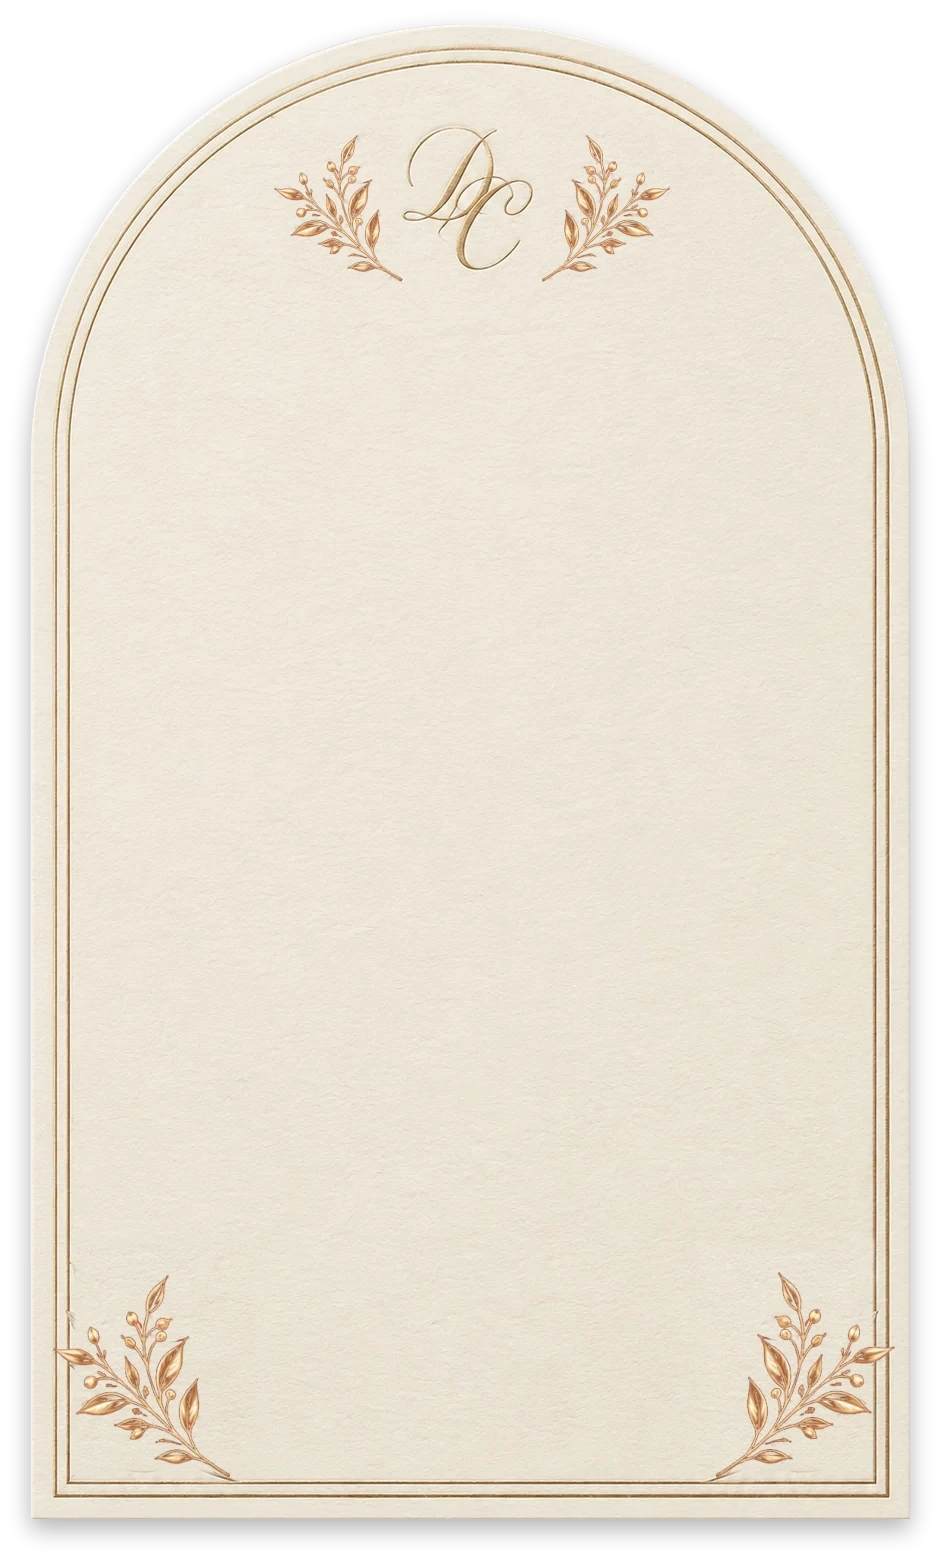
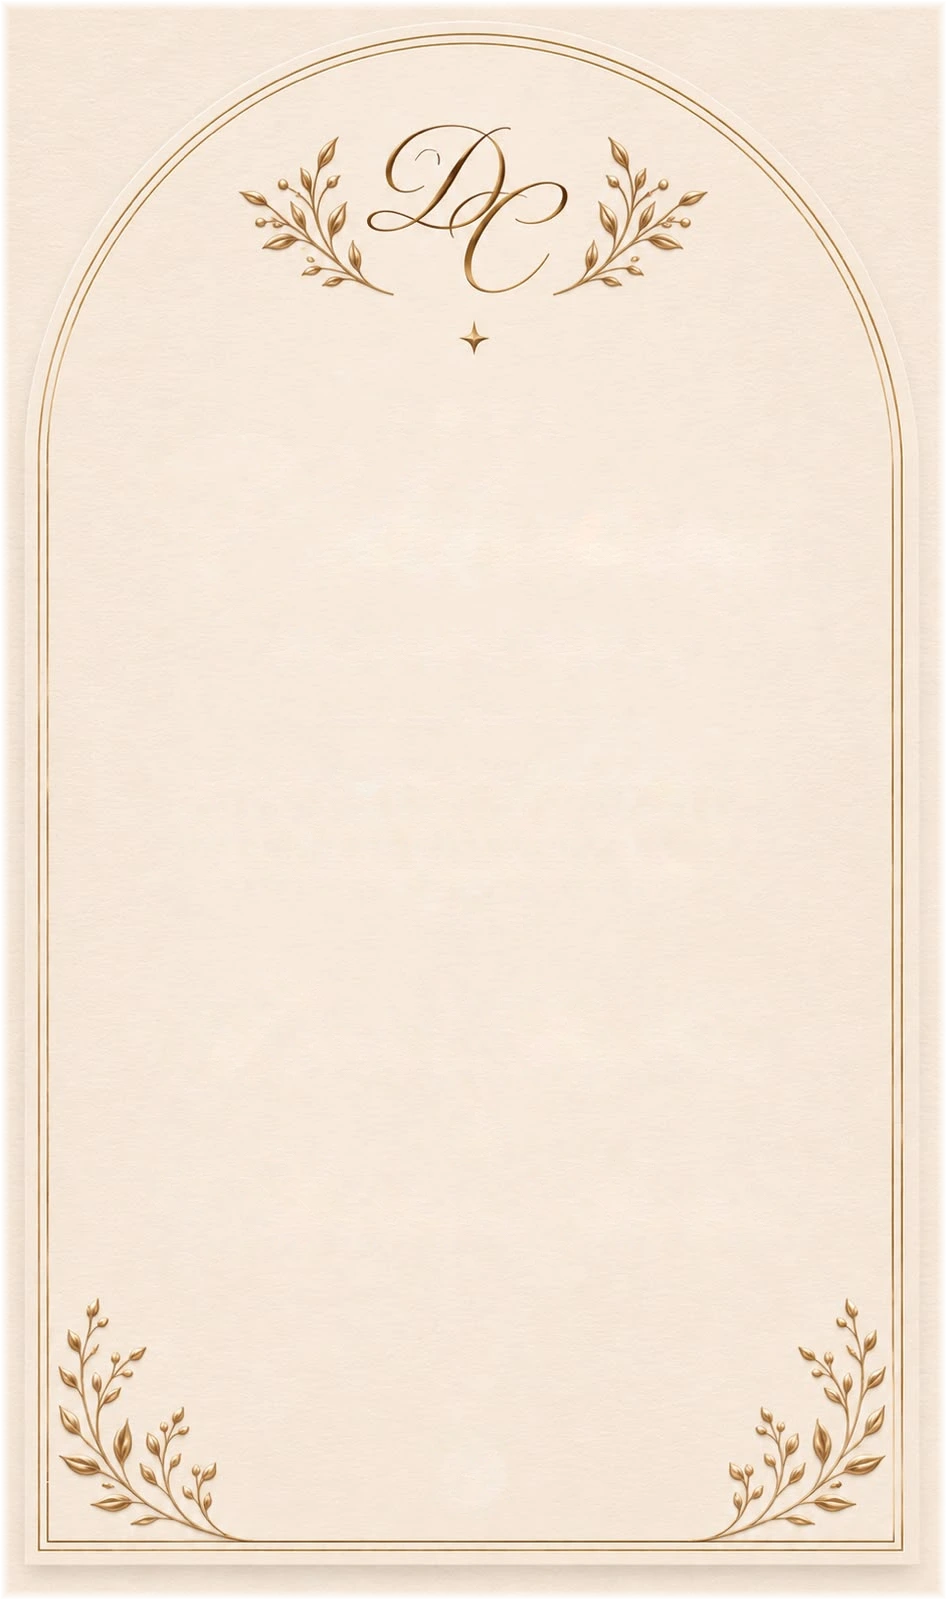
Update wedding invitation

Changed region(s): [[0.0, 0.0, 1.0, 1.0]]

diff --git a/index.html b/index.html
@@ -5,7 +5,7 @@
   <meta name="viewport" content="width=device-width, initial-scale=1, viewport-fit=cover">
   <title>Derick &amp; Christina — Four Celebrations</title>
   <meta name="description" content="Four Celebrations. One Beautiful Beginning. 2–9 January 2027.">
-  <meta name="theme-color" content="#EFE8DA">
+  <meta name="theme-color" content="#F5E6D6">
   <meta property="og:title" content="Derick &amp; Christina — Four Celebrations">
   <meta property="og:description" content="Four Celebrations · 2–9 January 2027">
   <meta property="og:type" content="website">
@@ -15,7 +15,7 @@
   <meta name="twitter:image" content="https://derick-christina-engagement.vercel.app/assets/og-image.jpg">
   <link rel="preconnect" href="https://fonts.googleapis.com">
   <link rel="preconnect" href="https://fonts.gstatic.com" crossorigin>
-  <link href="https://fonts.googleapis.com/css2?family=Cinzel:wght@400;500&family=Cormorant+Garamond:ital,wght@0,400;0,500;0,600;1,400;1,500&family=EB+Garamond:ital,wght@0,400;0,500;1,400&family=Great+Vibes&display=swap" rel="stylesheet">
+  <link href="https://fonts.googleapis.com/css2?family=Cinzel:wght@400;500&family=Cormorant+Garamond:ital,wght@0,400;0,500;0,600;1,400;1,500&family=EB+Garamond:ital,wght@0,400;0,500;1,400&family=Great+Vibes&family=Pinyon+Script&display=swap" rel="stylesheet">
   <link rel="preload" as="image" href="assets/env-back.webp" type="image/webp">
   <link rel="stylesheet" href="style.css">
 </head>
@@ -46,7 +46,7 @@
 
   <button id="music" type="button" hidden aria-label="Mute music" aria-pressed="false">♪</button><audio id="audio" loop preload="auto" autoplay playsinline></audio>
 <main class="doc" id="doc" tabindex="-1">
-<section class="page cover reveal" aria-label="Introduction"><div class="pi"><h1 class="tt sc">Four Celebrations</h1><p class="sb">One Beautiful Beginning</p><i class="dv"></i><p class="wd">With hearts full of joy, we invite you to join us as we celebrate love, togetherness, and the beginning of a beautiful new chapter.</p><p class="nm">Derick Mathew<span class="amp">&amp;</span>Christina Cherian</p></div><button class="down" id="downBtn" type="button" aria-label="Scroll down to the celebrations"><svg viewBox="0 0 24 24" aria-hidden="true"><path d="M5 9l7 7 7-7"/></svg></button></section>
+<section class="page cover reveal" aria-label="Introduction"><div class="pi"><h1 class="cv-h"><span class="cv-eyebrow">Four</span><span class="cv-sr">Celebrations</span></h1><img class="cv-img i-celebrations" src="assets/cards/cv-celebrations.webp" alt="" aria-hidden="true"><p class="cv-sub">One Beautiful Beginning</p><i class="cv-div" aria-hidden="true"><b></b></i><p class="cv-inv">With hearts full of joy, we invite you to<br>join us as we celebrate love, togetherness,<br>and the beginning of a beautiful new<br>chapter.</p><p class="cv-sr cv-n1x">Derick Mathew</p><img class="cv-img i-derick" src="assets/cards/cv-derick.webp" alt="" aria-hidden="true"><span class="cv-amp" aria-hidden="true">&amp;</span><p class="cv-sr cv-n2x">Christina Cherian</p><img class="cv-img i-christina" src="assets/cards/cv-christina.webp" alt="" aria-hidden="true"></div><button class="down" id="downBtn" type="button" aria-label="Scroll down to the celebrations"><svg viewBox="0 0 24 24" aria-hidden="true"><path d="M5 9l7 7 7-7"/></svg></button></section>
 <section class="page ev eng reveal" aria-label="Engagement"><div class="pi"><p class="sb">A Ring, A Promise, A Lifetime of Love</p><h2 class="tt">Engagement</h2><i class="dv"></i><p class="dt">Saturday, 2 January 2027</p><p class="tm">4:30 PM</p><div class="vb"><p class="lb">At</p><p class="vn">St. Thomas Syro-Malabar Church</p><p class="ad">Kottakkavu, North Paravur</p><a class="btn" target="_blank" rel="noopener noreferrer" href="https://www.google.com/maps/search/?api=1&query=St+Thomas+Syro+Malabar+Church+Kottakkavu+North+Paravur">View Church Location</a></div><div class="vb"><p class="lb">Reception</p><p class="tm">6:30 PM</p><p class="lb">At</p><p class="vn">One Kochi</p><p class="ad">Nedumbassery, Kochi</p><a class="btn" target="_blank" rel="noopener noreferrer" href="https://www.google.com/maps/search/?api=1&query=One+Kochi+Airport+Road+Nedumbassery">View Reception Location</a></div><p class="lb eng-dl">Dress Code</p><p class="dc">Ethnic Elegance</p></div></section>
 <section class="page ev cok reveal" aria-label="Cocktail Party"><div class="pi"><p class="sb"><span class="an">An</span> Exclusive Celebration</p><h2 class="tt">Cocktail Party</h2><p class="vs">A night full of games, dancing, and unforgettable memories.</p><p class="dt">Tuesday, 5 January 2027</p><p class="tm">5:00 PM</p><p class="lb cok-at">At</p><p class="vn cok-vn">Cotton Tree, Achanpady</p><a class="btn" target="_blank" rel="noopener noreferrer" href="https://www.google.com/maps/search/?api=1&query=Cotton+Tree+Achanpady+Kerala">View Location</a><div class="cok-dw"><p class="lb cok-dl">Dress Code</p><p class="dc">Glitz &amp; Glamour</p></div>
 <div class="rv">
@@ -66,7 +66,7 @@
   <p class="lb rv__q">What if I don’t RSVP on time?</p>
   <p class="rv__a">You’ll still be loved. Just possibly not fed.</p>
 </div></div></section>
-<section class="page ev mad reveal" aria-label="Madhuramveppu"><div class="pi"><p class="sb">A Celebration of Our Roots</p><h2 class="tt">Madhuramveppu</h2><p class="vs">Celebrating the sweetness of tradition, the warmth of family, and the vibrant spirit of Kerala.</p><i class="dv"></i><p class="dt">Thursday, 7 January 2027</p><p class="tm">6:00 PM</p><p class="lb">At</p><p class="vn">Mathew Kappil House</p><p class="ad">Kuttanad</p><a class="btn" target="_blank" rel="noopener noreferrer" href="https://maps.app.goo.gl/zuQkeont2NPMP6Ef7?g_st=ic">View Area on Map</a><p class="lb mad-dl">Dress Code</p><p class="dc">Traditionally Vibrant</p></div></section>
+<section class="page ev mad reveal" aria-label="Madhuramveppu"><div class="pi"><p class="sb">A Celebration of Our Roots</p><h2 class="tt">Madhuramveppu</h2><p class="vs">Celebrating the sweetness of tradition, the warmth of family, and the vibrant spirit of Kerala.</p><i class="dv"></i><p class="dt">Thursday, 7 January 2027</p><p class="tm">6:00 PM</p><p class="lb">At</p><p class="vn">Mathew Kappil House</p><p class="ad">Kuttanad</p><a class="btn" target="_blank" rel="noopener noreferrer" href="https://maps.app.goo.gl/zuQkeont2NPMP6Ef7?g_st=ic">View Area on Map</a><p class="lb mad-dl">Dress Code</p><p class="dc">Traditionally Vibrant</p><img class="mad-boat" src="assets/cards/kerala-boat.webp" alt="" aria-hidden="true" width="1400" height="455" loading="lazy"></div></section>
 <section class="page ev wed reveal" aria-label="Wedding"><div class="pi"><h2 class="tt">Holy Matrimony</h2><p class="vs">“So now faith, hope, and love abide, these three; but the greatest of these is love.”<b>1 Corinthians 13:13</b></p><i class="dv"></i><p class="dt big">Saturday, 9 January 2027</p><div class="vb"><p class="tm">2:30 PM</p><p class="lb">At</p><p class="vn">St. Joseph Syro Malabar Church</p><p class="ad">Punnakunnam, Alappuzha</p><a class="btn" target="_blank" rel="noopener noreferrer" href="https://www.google.com/maps/search/?api=1&query=St+Joseph+Syro+Malabar+Church+Punnakunnam+Kuttanad+Alappuzha">View Church Location</a></div><div class="vb"><p class="lb">Reception</p><p class="tm">6:00 PM</p><p class="lb">At</p><p class="vn">Vijaya International Convention Centre</p><p class="ad">Thiruvalla</p><a class="btn" target="_blank" rel="noopener noreferrer" href="https://www.google.com/maps/search/?api=1&query=Vijaya+International+Convention+Centre+Thiruvalla">View Reception Location</a></div><p class="lb">Dress Code</p><p class="dc">Suited Up, Pastel Perfect</p></div></section>
 <!-- RSVP section hidden (commented out). Remove this comment wrapper to bring it back.
 <section class="rsvp reveal" id="rsvp" aria-label="RSVP">

diff --git a/style.css b/style.css
@@ -5,14 +5,15 @@
    on the page with a soft shadow. Text is live HTML sized in cqw.
    ============================================================ */
 :root{
-  --ivory:#EFE8DA; --burg:#773F50; --burg-deep:#4B2230; --olive:#6B7448; --sage:#DDDAB9; --mauve:#B09B98;
+  --ivory:#F5E6D6; --burg:#773F50; --burg-deep:#4B2230; --olive:#6B7448; --sage:#DDDAB9; --mauve:#B09B98;
   --gold:#B69A60; --gold-ink:#8A6A33; --brown:#4A3028;
   --f-display:'Cinzel','Cormorant Garamond',serif;
   --f-serif:'Cormorant Garamond','EB Garamond',Georgia,serif;
   --f-body:'EB Garamond',Georgia,serif;
   --f-script:'Great Vibes',cursive;
+  --f-cover:'Pinyon Script','Great Vibes',cursive;
   --col:480px;
-  --paper:var(--ivory) url("assets/paper.webp") center top/420px repeat;
+  --paper:var(--ivory);
 }
 *,*::before,*::after{box-sizing:border-box}
 [hidden]{display:none!important}
@@ -99,7 +100,7 @@ html.is-locked,html.is-locked body{overflow:hidden}
 html{scroll-snap-type:y proximity}
 
 /* cover = one image */
-.cover{--r:1.661;aspect-ratio:941/1563;background:url("assets/cards/hero.webp") center/100% 100% no-repeat;--ink:#4a3028;--acc:#8a6a33;--hd:#55351F;--nmc:#55351F;--bgc:#efe8da}
+.cover{--r:1.6896;aspect-ratio:947/1600;background:url("assets/cards/hero.webp") center/100% 100% no-repeat;--ink:#6a4430;--acc:#b38b52;--hd:#66340f;--nmc:#66340f;--bgc:#f5e6d6}
 
 /* event cards = top cap + bottom cap + seamless middle that stretches with the content */
 .page.ev{--cap:68cqw;--bot:32cqw;background-repeat:no-repeat;background-position:top center,bottom center;background-size:100% auto,100% auto}
@@ -116,7 +117,7 @@ html{scroll-snap-type:y proximity}
 /* per-card colour + text zone (--pt/--pb clear the artwork; --h = natural card height) */
 .eng{--r:1.661;--ink:#f3e9d5;--acc:#e6d09b;--hd:#f5ebd7;--nmc:#e8d3a3;--bgc:#773f50;--pt:40cqw;--pb:27cqw;--h:172.5cqw}
 .cok{--r:1.661;--ink:#f1ecd8;--acc:#efdfae;--hd:#f4eeda;--nmc:#ead9a6;--bgc:#161514;--pt:50cqw;--pb:26cqw;--h:182.5cqw}
-.mad{--r:1.661;--ink:#38341e;--acc:#5b4418;--hd:#54532f;--nmc:#6f2f42;--bgc:#ddd9b8;--pt:53cqw;--pb:26cqw;--h:182.8cqw}
+.mad{--r:1.661;--ink:#38341e;--acc:#5b4418;--hd:#54532f;--nmc:#6f2f42;--bgc:#ddd9b8;--pt:50cqw;--pb:24cqw;--h:182.8cqw}
 .wed{--r:1.661;--ink:#33242a;--acc:#46301a;--hd:#4b2230;--nmc:#4b2230;--bgc:#FBF2E3;--pt:56cqw;--pb:22cqw;--h:183.3cqw}
 .wed.ev{--bot:38.8cqw}
 
@@ -317,3 +318,36 @@ html{scroll-snap-type:y proximity}
 .cover .sb{font:italic 400 4.3cqw/1.3 var(--f-body)}
 .mad .mad-dl{margin-top:2.2cqw}
 .mad.ev .pi{height:100%;justify-content:flex-start;padding:55cqw 0 26cqw}
+
+
+/* ================= COVER — matches the reference invitation exactly =================
+   Every element is placed in cqw (1cqw = 1% of card width) from the 947x1600 reference. */
+.cover .pi{position:absolute;inset:0;width:auto;height:auto;padding:0;margin:0;display:block;text-align:center}
+.cover .pi>*{position:absolute;left:0;right:0;margin:0!important;transform:translateY(-50%);white-space:nowrap}
+.cover .cv-h{top:0;bottom:auto;left:0;right:0;margin:0!important;font:inherit;transform:none;position:absolute;height:0}
+.cover .cv-h>*{position:absolute;left:0;right:0;margin:0;display:block;transform:translateY(-50%);white-space:nowrap}
+.cover .cv-eyebrow{top:44cqw;font:500 4.5cqw/1 var(--f-serif);letter-spacing:.52em;padding-left:.52em;text-transform:uppercase;color:#5c3b26}
+.cover .cv-title{top:56cqw;font:400 16.6cqw/1 var(--f-cover);letter-spacing:0;color:#5f2f10}
+.cover .cv-sub{top:68.6cqw;font:italic 500 3.85cqw/1 var(--f-serif);letter-spacing:.055em;color:#6a3f22}
+.cover .cv-div{top:75.7cqw;display:flex;align-items:center;justify-content:center;gap:2.1cqw}
+.cover .cv-div::before,.cover .cv-div::after{content:"";width:13.2cqw;height:1px;background:linear-gradient(90deg,transparent,#b38b52 35%,#b38b52)}
+.cover .cv-div::after{transform:scaleX(-1)}
+.cover .cv-div b{width:2.4cqw;height:2.4cqw;background:#b38b52;clip-path:polygon(50% 0,60% 40%,100% 50%,60% 60%,50% 100%,40% 60%,0 50%,40% 40%)}
+.cover .cv-inv{top:89.6cqw;font:italic 500 3.4cqw/4.57cqw var(--f-serif);letter-spacing:.035em;color:#6a3f22;white-space:normal}
+.cover .cv-name{font:400 11.3cqw/1 var(--f-cover);color:#5f2f10}
+.cover .cv-n1{top:109.8cqw}
+.cover .cv-amp{top:120.2cqw;font:400 6.4cqw/1 var(--f-serif);color:#b38b52}
+.cover .cv-n2{top:127.8cqw}
+.cover .down{bottom:9.7cqw;width:max(38px,7.2cqw);height:max(38px,7.2cqw);background:transparent;border-color:#b38b52;color:#b38b52}
+.cover .down:hover,.cover .down:focus-visible{background:#b38b52;color:#f5e6d6}
+
+/* exact lettering cut from the reference artwork */
+.cover .pi>img.cv-img{position:absolute;display:block;height:auto;transform:none;right:auto;margin:0!important;pointer-events:none;user-select:none}
+.cover .cv-img.i-celebrations{left:15.42cqw;top:45.09cqw;width:71.91cqw}
+.cover .cv-img.i-derick{left:17.42cqw;top:102.53cqw;width:64.84cqw}
+.cover .cv-img.i-christina{left:15.95cqw;top:121.01cqw;width:67.48cqw}
+.cover .cv-sr{position:absolute!important;width:1px;height:1px;overflow:hidden;clip:rect(0 0 0 0);left:0;top:0;transform:none!important;white-space:nowrap}
+.cover .cv-h>.cv-sr{position:absolute}
+
+/* Kerala vallam (snake boat) under the dress code */
+.mad .mad-boat{display:block;width:46cqw;height:auto;margin-top:4cqw;pointer-events:none;user-select:none}

diff --git a/script.js b/script.js
@@ -9,7 +9,7 @@
   var peek = document.getElementById('peek');
   var sealBtn = document.getElementById('sealBtn');
   var skipBtn = document.getElementById('skipBtn');
-  var RATIO = 1563 / 941;   // cover artwork (assets/cards/hero.webp)
+  var RATIO = 1600 / 947;   // cover artwork (assets/cards/hero.webp)
   var reduce = window.matchMedia && window.matchMedia('(prefers-reduced-motion: reduce)').matches;
 
   /* ---- scroll reveals, started once the letter is showing ---- */
